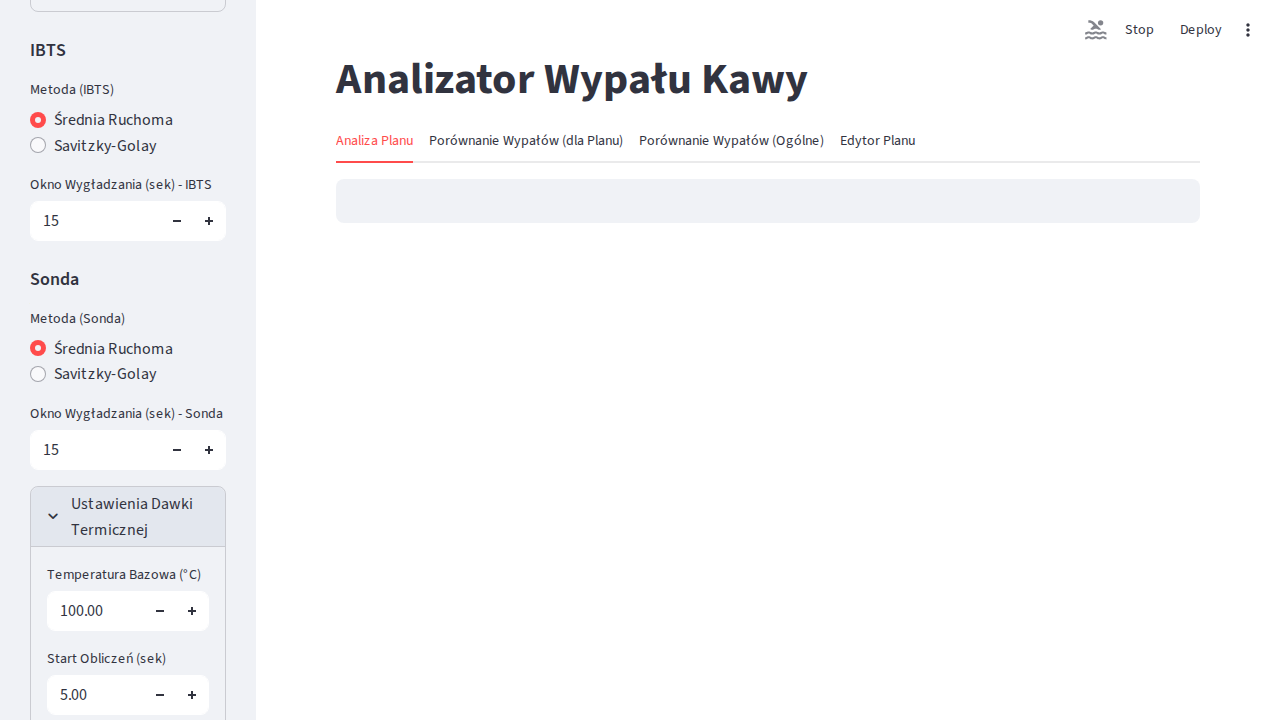
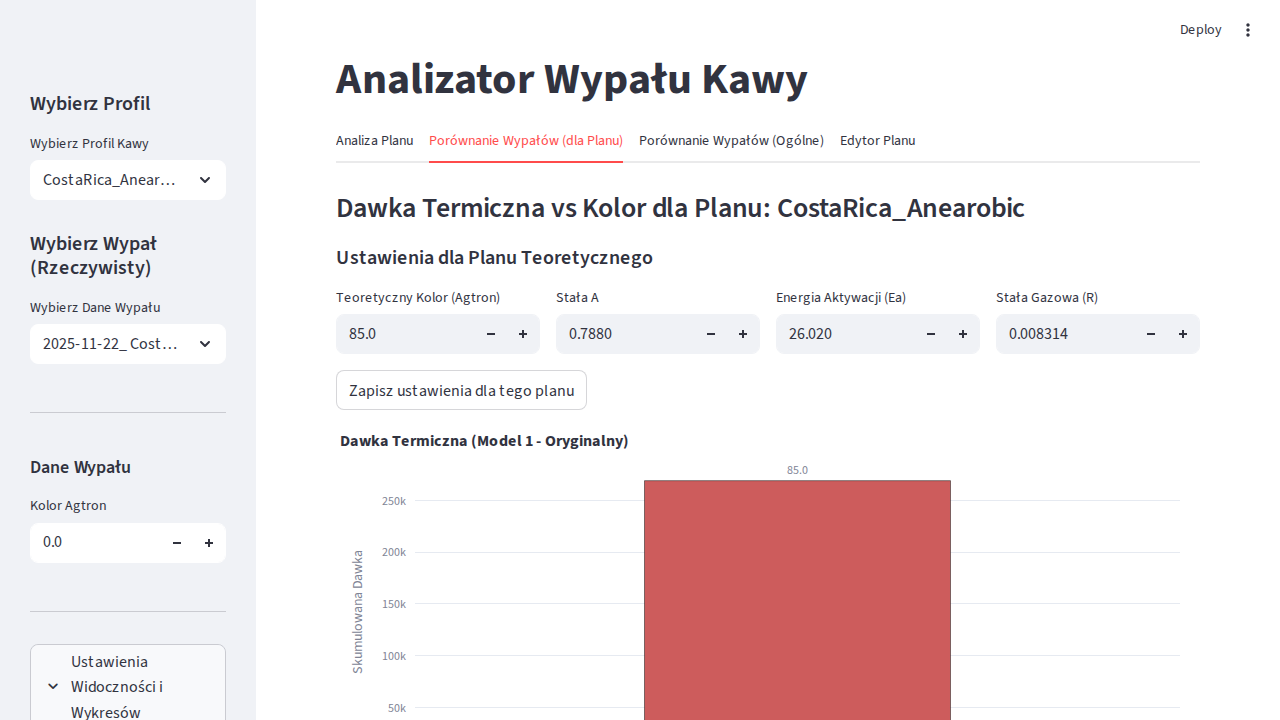
Split Thermal Dose chart into two separate charts (Model 1 & 2) in Plan Comparison tab, display Agtron values on bars, and adjust layout.

diff --git a/tabs/plan_comparison.py b/tabs/plan_comparison.py
@@ -64,7 +64,7 @@ def render(st: object, state: AppState):
         plan_df = oblicz_dawke_termiczna_arrhenius(plan_df, temp_col='Temperatura', time_col='Time_Seconds', A=const_A, Ea=const_Ea, R=const_R, start_time_threshold=state.dose_start_time)
 
         all_data.append({
-            'Label': f"PLAN ({agtron_teoretyczny:.1f})",
+            'Label': "PLAN",
             'Agtron': agtron_teoretyczny,
             'File': plan_name,
             'Dose_Old': plan_df['Thermal_Dose'].iloc[-1],
@@ -85,7 +85,7 @@ def render(st: object, state: AppState):
             r_df = oblicz_dawke_termiczna_arrhenius(r_df, temp_col='IBTS Temp', time_col='Time_Seconds', A=const_A, Ea=const_Ea, R=const_R, start_time_threshold=state.dose_start_time)
 
             all_data.append({
-                'Label': f"{f_name.replace('.csv','')} ({agtron_val:.1f})",
+                'Label': f"{f_name.replace('.csv','')}",
                 'Agtron': agtron_val,
                 'File': f_name,
                 'Dose_Old': r_df['Thermal_Dose'].iloc[-1],
@@ -101,29 +101,48 @@ def render(st: object, state: AppState):
 
     df_plot = pd.DataFrame(all_data).sort_values(by="Agtron", ascending=False)
 
-    fig = go.Figure()
-    fig.add_trace(go.Bar(
+    # Wykres 1: Model Oryginalny (Czerwony)
+    fig1 = go.Figure()
+    fig1.add_trace(go.Bar(
         x=df_plot['Label'],
         y=df_plot['Dose_Old'],
+        text=df_plot['Agtron'].apply(lambda x: f"{x:.1f}"),
+        textposition='outside',
         name='Dawka (Model Oryginalny)',
         marker_color='indianred',
-        hovertemplate="<b>%{x}</b><br>Dawka (Oryg.): %{y:.0f}<extra></extra>"
-    ))
-    fig.add_trace(go.Bar(
-        x=df_plot['Label'],
-        y=df_plot['Dose_New'],
-        name='Dawka (Model Arrhenius)',
-        marker_color='lightsalmon',
-        hovertemplate="<b>%{x}</b><br>Dawka (Arrhenius): %{y:.0f}<extra></extra>"
+        width=0.4,
+        hovertemplate="<b>%{x}</b><br>Dawka (Oryg.): %{y:.0f}<br>Agtron: %{text}<extra></extra>"
     ))
 
-    fig.update_layout(
-        barmode='group',
+    fig1.update_layout(
         template="plotly_dark",
-        title="Porównanie Dawki Termicznej (dwa modele)",
-        xaxis_title="Wypał (Kolor Agtron)",
-        yaxis_title="Skumulowana Dawka Termiczna",
-        height=600,
-        legend=dict(orientation="h", yanchor="bottom", y=1.02, xanchor="right", x=1)
+        title="Dawka Termiczna (Model 1 - Oryginalny)",
+        xaxis_title="Wypał",
+        yaxis_title="Skumulowana Dawka",
+        height=400,
+        margin=dict(l=20, r=20, t=40, b=20)
     )
-    st.plotly_chart(fig, use_container_width=True)
+    st.plotly_chart(fig1, use_container_width=True)
+
+    # Wykres 2: Model Arrhenius (Niebieski)
+    fig2 = go.Figure()
+    fig2.add_trace(go.Bar(
+        x=df_plot['Label'],
+        y=df_plot['Dose_New'],
+        text=df_plot['Agtron'].apply(lambda x: f"{x:.1f}"),
+        textposition='outside',
+        name='Dawka (Model Arrhenius)',
+        marker_color='royalblue',
+        width=0.4,
+        hovertemplate="<b>%{x}</b><br>Dawka (Arrhenius): %{y:.0f}<br>Agtron: %{text}<extra></extra>"
+    ))
+
+    fig2.update_layout(
+        template="plotly_dark",
+        title="Dawka Termiczna (Model 2 - Arrhenius)",
+        xaxis_title="Wypał",
+        yaxis_title="Skumulowana Dawka",
+        height=400,
+        margin=dict(l=20, r=20, t=40, b=20)
+    )
+    st.plotly_chart(fig2, use_container_width=True)

diff --git a/verification/verify_feature.py b/verification/verify_feature.py
@@ -1,0 +1,55 @@
+from playwright.sync_api import Page, expect, sync_playwright
+
+def verify_charts(page: Page):
+    # 1. Open App
+    page.goto("http://localhost:8501")
+
+    # 2. Select Profile
+    # The sidebar has a selectbox for profile. Streamlit selectboxes are tricky.
+    # Usually label is "Wybierz Profil".
+    # Wait for the app to load
+    page.wait_for_timeout(3000)
+
+    # Select "CostaRica_Anearobic" if not already selected.
+    # It seems the app defaults to empty or first one.
+    # Let's try to find the selectbox.
+    # We might need to select "Porównanie Wypałów (dla Planu)" tab first.
+
+    tabs = page.get_by_role("tab", name="Porównanie Wypałów (dla Planu)")
+    tabs.click()
+
+    page.wait_for_timeout(2000)
+
+    # Check if we need to select profile.
+    # Look for "Brak plików wypałów do analizy w tym profilu."
+    if page.get_by_text("Brak plików wypałów do analizy w tym profilu.").is_visible():
+        print("Selecting profile...")
+        # Assume sidebar is open.
+        # Click the selectbox.
+        # Streamlit selectbox is often a combobox or similar.
+        # Find label "Wybierz Profil"
+        # It might be in the sidebar.
+        page.get_by_label("Wybierz Profil").click()
+        page.get_by_text("CostaRica_Anearobic").click()
+        page.wait_for_timeout(3000)
+
+    # 3. Verify Charts
+    # Look for titles
+    expect(page.get_by_text("Dawka Termiczna (Model 1 - Oryginalny)")).to_be_visible()
+    expect(page.get_by_text("Dawka Termiczna (Model 2 - Arrhenius)")).to_be_visible()
+
+    # 4. Screenshot
+    page.screenshot(path="verification/verification.png")
+
+if __name__ == "__main__":
+    with sync_playwright() as p:
+        browser = p.chromium.launch(headless=True)
+        page = browser.new_page()
+        try:
+            verify_charts(page)
+        except Exception as e:
+            print(f"Error: {e}")
+            page.screenshot(path="verification/error.png")
+            raise e
+        finally:
+            browser.close()
